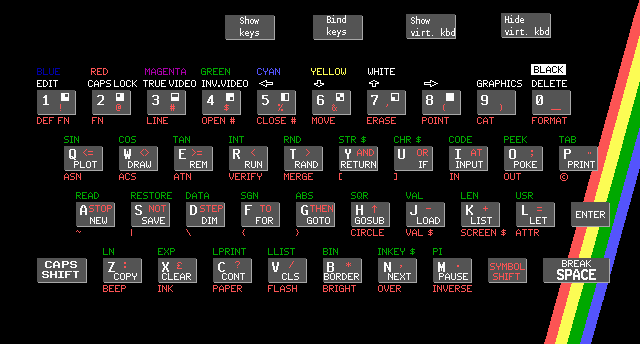
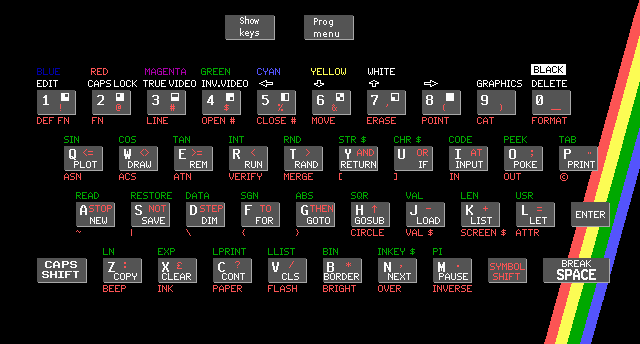
Program menu

Changed region(s): [[0.4688, 0.0291, 0.5938, 0.1163], [0.7812, 0.0291, 0.875, 0.1163], [0.625, 0.0291, 0.7188, 0.1163]]

diff --git a/qspectemu.cpp b/qspectemu.cpp
@@ -81,6 +81,8 @@ static struct oskey oskeyspng[] = {
     {Qt::Key_M, 452, 272},
     {Qt::Key_Control, 507, 272},
     {Qt::Key_Space, 578, 272},
+    {Qt::Key_F1, 250, 28},
+    {Qt::Key_F2, 330, 28},
 };
 
 #define OSKEYS_SIZE (int)(sizeof(oskeys) / sizeof(oskey))
@@ -133,7 +135,7 @@ bool decodeKey(int key, int *ks, int *shks, int *ki)
     case Qt::Key_Apostrophe:*ks = '\'';         *shks = '"';        break;
     case Qt::Key_QuoteLeft: *ks = '`';          *shks = '~';        break;
     case Qt::Key_Shift:     *ks = SK_Shift_L;                       break;
-    case Qt::Key_Backslash: *ks = '\\';          *shks = '|';       break;
+    case Qt::Key_Backslash: *ks = '\\';         *shks = '|';        break;
     case Qt::Key_Z:         *ks = 'z';          *shks = 'Z';        break;
     case Qt::Key_X:         *ks = 'x';          *shks = 'X';        break;
     case Qt::Key_C:         *ks = 'c';          *shks = 'C';        break;
@@ -145,6 +147,8 @@ bool decodeKey(int key, int *ks, int *shks, int *ki)
     case Qt::Key_Period:    *ks = '.';          *shks = '>';        break;
     case Qt::Key_Slash:     *ks = '/';          *shks = '?';        break;
     case Qt::Key_Space:     *ks = ' ';          *shks = ' ';        break;
+    case Qt::Key_F1:        *ks = -1;                               break;
+    case Qt::Key_F2:        *ks = -2;                               break;
     default:
         return false;
     }
@@ -162,6 +166,21 @@ static void pressKey(int key)
     if(!decodeKey(key, &ks, &shks, &ki))
     {
         printf("unknown key=%d\n", key);
+        return;
+    }
+
+    // Special keys
+    if(ks < 0)
+    {
+        sp_paused = 1;
+        if(key == Qt::Key_F1)
+        {
+            qspectemu->showScreen(QSpectemu::ScreenKeyboardPng);
+        }
+        else if(key == Qt::Key_F2)
+        {
+            qspectemu->showScreen(QSpectemu::ScreenProgMenu);
+        }
         return;
     }
 
@@ -217,6 +236,8 @@ QSpectemu::QSpectemu(QWidget *parent, Qt::WFlags f)
 {
 #ifdef QTOPIA
     this->setWindowState(Qt::WindowMaximized);
+#else
+    resize(640, 480);
 #endif
     Q_UNUSED(f);
 
@@ -294,6 +315,7 @@ void QSpectemu::showScreen(QSpectemu::Screen scr)
     if(this == fullScreenWidget)
     {
         normalScreenWidget->showScreen(scr);
+        update();
         return;
     }
 
@@ -370,6 +392,8 @@ void QSpectemu::showScreen(QSpectemu::Screen scr)
     chkRotate->setVisible(scr == QSpectemu::ScreenProgMenu);
     chkVirtKeyb->setVisible(scr == QSpectemu::ScreenProgMenu);
     lw->setVisible(scr == QSpectemu::ScreenProgList);
+
+    update();
 }
 
 void QSpectemu::showScreenKeyboardPngBind()
@@ -621,6 +645,7 @@ void QSpectemu::mousePressEvent(QMouseEvent *e)
     }
     else if(screen == QSpectemu::ScreenKeyboardPng)
     {
+        sp_paused = 0;
         pressKey(getKeyPng(e->x(), e->y()));
         showScreen(QSpectemu::ScreenProgRunning);
     }
@@ -866,6 +891,7 @@ void QSpectemu::bindClicked()
 
 void QSpectemu::kbdClicked()
 {
+    showScreen(QSpectemu::ScreenKeyboardPng);
 }
 
 void QSpectemu::quitClicked()
@@ -896,6 +922,13 @@ void QSpectemu::okClicked()
     }
     else if(screen == QSpectemu::ScreenProgMenu)
     {
+        if(sp_paused)
+        {
+            sp_paused = 0;
+            showScreen(QSpectemu::ScreenProgRunning);
+            return;
+        }
+
         QStringList args = QApplication::arguments();
         argc = args.count();
         argv = (char **) malloc_err(sizeof(char *) * argc);
